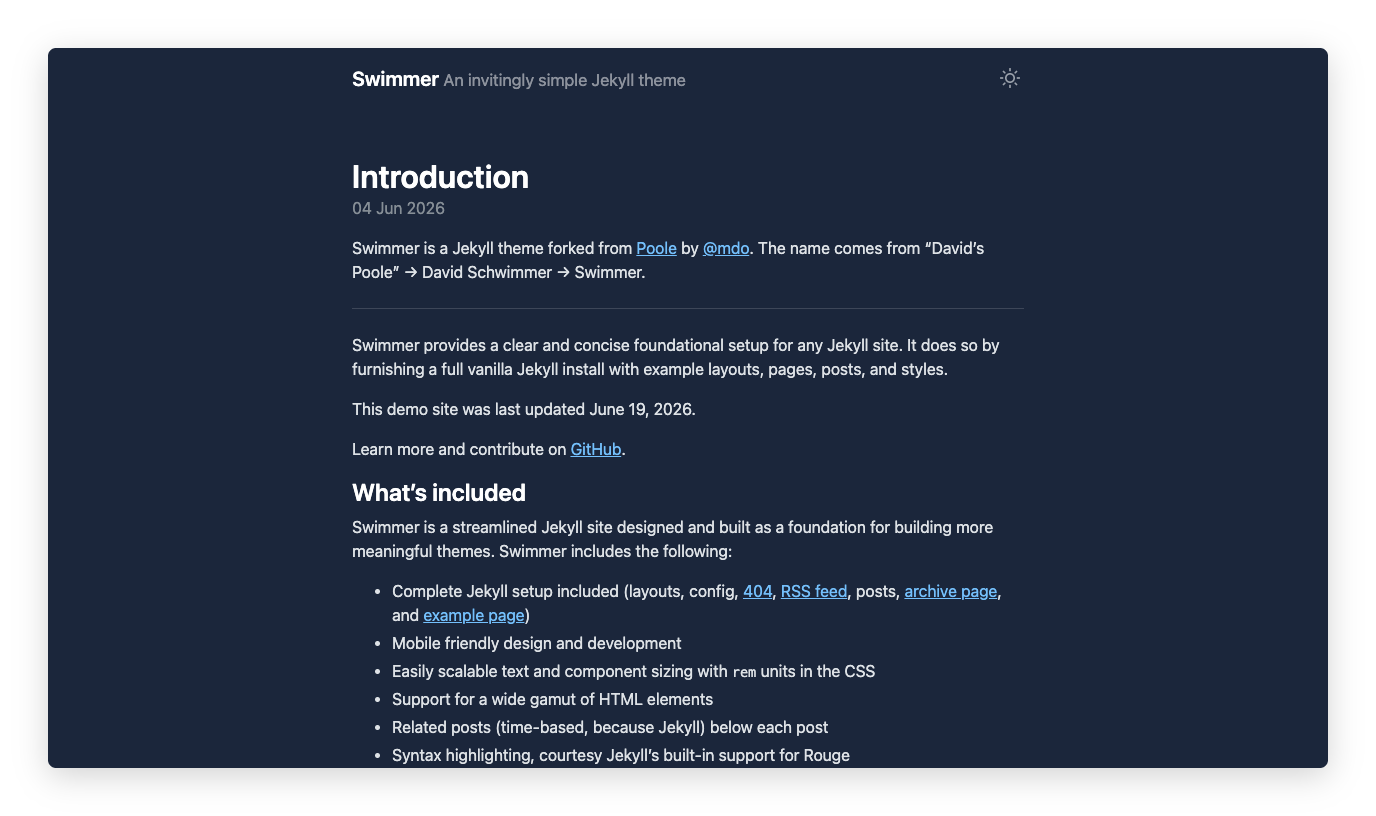
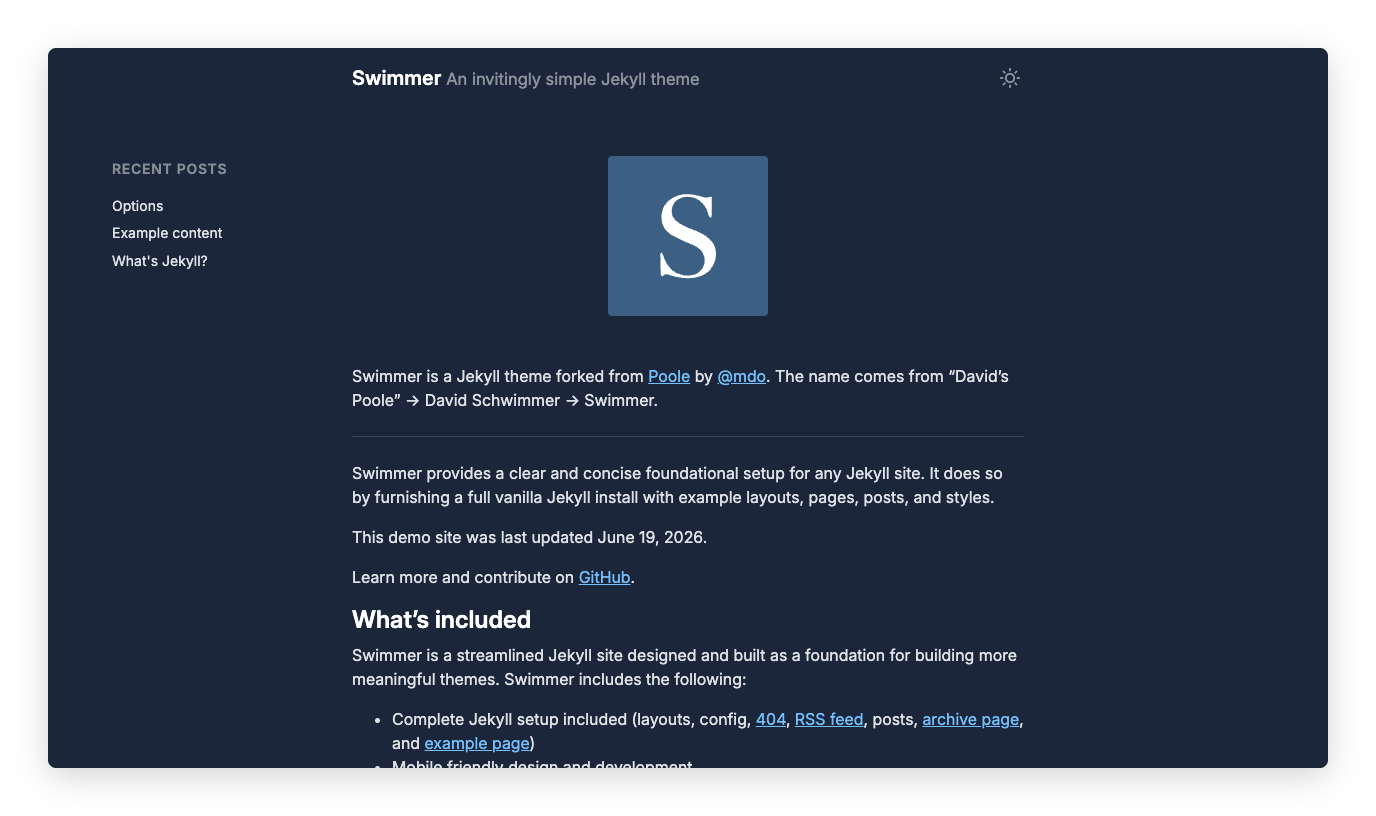
Enhance Swimmer theme with new features and styling
- Updated README.md to reflect new features including dedicated landing page, minimalist masthead, post sidebar, dark mode, self-hosted variable fonts, and Tailwind CSS v4 integration.
- Added CSS styles for landing logo to improve layout.
- Updated index.md to include landing logo.
- Updated styles.css to incorporate new styles and ensure proper functionality across light and dark modes.
- Updated screenshot images to reflect the latest design changes.

diff --git a/_css/layout.css b/_css/layout.css
@@ -10,3 +10,9 @@ footer {
   margin-top: var(--spacer-3);
   margin-bottom: var(--spacer-3);
 }
+
+.landing-logo {
+  display: block;
+  margin: 0 auto var(--spacer-3);
+  border-radius: var(--radius-default);
+}

diff --git a/styles.css b/styles.css
@@ -1,2 +1,2 @@
 /*! tailwindcss v4.3.1 | MIT License | https://tailwindcss.com */
-@layer properties{@supports (((-webkit-hyphens:none)) and (not (margin-trim:inline))) or ((-moz-orient:inline) and (not (color:rgb(from red r g b)))){*,:before,:after,::backdrop{--tw-blur:initial;--tw-brightness:initial;--tw-contrast:initial;--tw-grayscale:initial;--tw-hue-rotate:initial;--tw-invert:initial;--tw-opacity:initial;--tw-saturate:initial;--tw-sepia:initial;--tw-drop-shadow:initial;--tw-drop-shadow-color:initial;--tw-drop-shadow-alpha:100%;--tw-drop-shadow-size:initial}}}@layer theme{:root,:host{--color-blue-300:#74c0fc;--color-blue-400:#4dabf7;--color-gray-100:#f1f3f5;--color-gray-200:#e9ecef;--color-gray-300:#dee2e6;--color-gray-400:#ced4da;--color-gray-500:#adb5bd;--color-gray-600:#868e96;--color-gray-700:#495057;--color-gray-800:#343a40;--color-gray-900:#212529;--color-gray-000:#f8f9fa;--color-red:#fa5252;--color-pink:#e64980;--color-grape:#be4bdb;--color-purple:#7950f2;--color-indigo:#4c6ef5;--color-blue:#228be6;--color-cyan:#15aabf;--color-teal:#12b886;--color-green:#40c057;--color-yellow:#fab005;--color-orange:#fd7e14;--font-body:"Inter", -apple-system, BlinkMacSystemFont, "Segoe UI", Roboto, "Helvetica Neue", Arial, "Noto Sans", sans-serif, "Apple Color Emoji", "Segoe UI Emoji", "Segoe UI Symbol", "Noto Color Emoji";--font-code:"Roboto Mono", SFMono-Regular, Menlo, Monaco, Consolas, "Liberation Mono", "Courier New", monospace;--radius-default:.25rem}}@layer utilities{.static{position:static}.contents{display:contents}.inline{display:inline}.grayscale{--tw-grayscale:grayscale(100%);filter:var(--tw-blur,) var(--tw-brightness,) var(--tw-contrast,) var(--tw-grayscale,) var(--tw-hue-rotate,) var(--tw-invert,) var(--tw-saturate,) var(--tw-sepia,) var(--tw-drop-shadow,)}}@font-face{font-family:Inter;font-style:normal;font-weight:100 900;font-display:swap;src:url(assets/fonts/InterVariable.woff2)format("woff2")}@font-face{font-family:Roboto Mono;font-style:normal;font-weight:100 700;font-display:swap;src:url(assets/fonts/RobotoMono-Variable.woff2)format("woff2")}:root{--body-font-size:16px;--body-line-height:1.5;--body-color:var(--color-gray-700);--body-bg:#f7f9fc;--link-color:var(--color-blue);--link-hover-color:#1c7ed6;--heading-color:var(--color-gray-900);--border-color:var(--color-gray-400);--code-color:var(--color-grape);--code-bg:#eef0f5;--highlight-color:var(--color-gray-900);--highlight-bg:#bee5f2;--spacer:1rem;--spacer-2:calc(var(--spacer) * 1.5);--spacer-3:calc(var(--spacer) * 3)}@media (prefers-color-scheme:dark){:root:not([data-theme=light]){--body-color:var(--color-gray-300);--body-bg:#1b263b;--heading-color:#fff;--link-color:var(--color-blue-300);--link-hover-color:var(--color-blue-400);--border-color:#ffffff26;--code-bg:#131c2e;--highlight-color:var(--color-gray-200);--highlight-bg:#1e4a5e}}:root[data-theme=dark]{--body-color:var(--color-gray-300);--body-bg:#1b263b;--heading-color:#fff;--link-color:var(--color-blue-300);--link-hover-color:var(--color-blue-400);--border-color:#ffffff26;--code-bg:#131c2e;--highlight-color:var(--color-gray-200);--highlight-bg:#1e4a5e}*{box-sizing:border-box}body{font-family:var(--font-body);font-size:var(--body-font-size);line-height:var(--body-line-height);color:var(--body-color);background-color:var(--body-bg);-webkit-text-size-adjust:100%;-ms-text-size-adjust:100%;margin:0}a{color:var(--link-color)}a:hover,a:focus{color:var(--link-hover-color)}a strong{color:inherit}img{max-width:100%;margin-bottom:var(--spacer);border-radius:var(--radius-default);display:block}table{border:0 solid var(--border-color);border-collapse:collapse;width:100%;margin-bottom:1rem}td,th{border-color:inherit;border-style:solid;border-width:0 0 1px;padding:.25rem .5rem}th{text-align:left}thead th{border-bottom-color:currentColor}mark{color:var(--highlight-color);background-color:var(--highlight-bg);border-radius:.125rem;padding:.15rem}h1,h2,h3,h4,h5,h6{color:var(--heading-color);margin-bottom:.5rem;font-weight:600;line-height:1.25}h1{font-size:2rem}h2{margin-top:1rem;font-size:1.5rem}h3{margin-top:1.5rem;font-size:1.25rem}h4,h5,h6{margin-top:1rem;font-size:1rem}p,ul,ol,dl{margin-top:0;margin-bottom:1rem}dt{font-weight:700}dd{margin-bottom:.5rem}hr{margin:var(--spacer-2) 0;border:0;border-top:1px solid var(--border-color);position:relative}abbr{color:var(--color-gray-600);text-transform:uppercase;font-size:85%;font-weight:700}abbr[title]{cursor:help;border-bottom:1px dotted var(--border-color)}blockquote{color:var(--color-gray-600);border-left:.25rem solid var(--border-color);margin:.8rem 0;padding:.5rem 1rem}blockquote p:last-child{margin-bottom:0}@media (min-width:30em){blockquote{padding-left:1.25rem;padding-right:5rem}}figure{margin:0}a[href^="#fn:"],a[href^="#fnref:"]{margin-left:.1rem;font-weight:700;display:inline-block}.footnotes{margin-top:2rem;font-size:85%}.lead{font-size:1.25rem;font-weight:300}.highlight .hll{background-color:#ffc}.highlight .c{color:#999}.highlight .err{color:#a00;background-color:#faa}.highlight .k{color:#069}.highlight .o{color:#555}.highlight .cm{color:#09f;font-style:italic}.highlight .cp{color:#099}.highlight .c1,.highlight .cs{color:#999}.highlight .gd{background-color:#fcc;border:1px solid #c00}.highlight .ge{font-style:italic}.highlight .gr{color:red}.highlight .gh{color:#030}.highlight .gi{background-color:#cfc;border:1px solid #0c0}.highlight .go{color:#aaa}.highlight .gp{color:#009}.highlight .gu{color:#030}.highlight .gt{color:#9c6}.highlight .kc,.highlight .kd,.highlight .kn,.highlight .kp,.highlight .kr{color:#069}.highlight .kt{color:#078}.highlight .m{color:#f60}.highlight .s{color:#d44950}.highlight .na{color:#4f9fcf}.highlight .nb{color:#366}.highlight .nc{color:#0a8}.highlight .no{color:#360}.highlight .nd{color:#99f}.highlight .ni{color:#999}.highlight .ne{color:#c00}.highlight .nf{color:#c0f}.highlight .nl{color:#99f}.highlight .nn{color:#0cf}.highlight .nt{color:#2f6f9f}.highlight .nv{color:#033}.highlight .ow{color:#000}.highlight .w{color:#bbb}.highlight .mf,.highlight .mh,.highlight .mi,.highlight .mo{color:#f60}.highlight .sb,.highlight .sc{color:#c30}.highlight .sd{color:#c30;font-style:italic}.highlight .s2,.highlight .se,.highlight .sh{color:#c30}.highlight .si{color:#a00}.highlight .sx{color:#c30}.highlight .sr{color:#3aa}.highlight .s1{color:#c30}.highlight .ss{color:#b58900}.highlight .bp{color:#366}.highlight .vc,.highlight .vg,.highlight .vi{color:#033}.highlight .il{color:#f60}.css .o,.css .o+.nt,.css .nt+.nt{color:#999}@media (prefers-color-scheme:dark){:root:not([data-theme=light]) .highlight .hll{background-color:#ffffc814}:root:not([data-theme=light]) .highlight .err{color:#e55;background-color:#ff646426}:root:not([data-theme=light]) .highlight .o{color:#999}:root:not([data-theme=light]) .highlight .cp{color:#2cc}:root:not([data-theme=light]) .highlight .gd{background-color:#ff64641a;border-color:#c55}:root:not([data-theme=light]) .highlight .gh,:root:not([data-theme=light]) .highlight .gu{color:#6abf6a}:root:not([data-theme=light]) .highlight .gi{background-color:#64ff641a;border-color:#5a5}:root:not([data-theme=light]) .highlight .gp{color:#68d}:root:not([data-theme=light]) .highlight .k,:root:not([data-theme=light]) .highlight .kc,:root:not([data-theme=light]) .highlight .kd,:root:not([data-theme=light]) .highlight .kn,:root:not([data-theme=light]) .highlight .kp,:root:not([data-theme=light]) .highlight .kr,:root:not([data-theme=light]) .highlight .kt{color:#5aa8d8}:root:not([data-theme=light]) .highlight .nb,:root:not([data-theme=light]) .highlight .bp{color:#5dadad}:root:not([data-theme=light]) .highlight .nc{color:#2cc9a8}:root:not([data-theme=light]) .highlight .no{color:#7abf4a}:root:not([data-theme=light]) .highlight .nt{color:#5ab0e0}:root:not([data-theme=light]) .highlight .nv,:root:not([data-theme=light]) .highlight .vc,:root:not([data-theme=light]) .highlight .vg,:root:not([data-theme=light]) .highlight .vi{color:#5dadad}:root:not([data-theme=light]) .highlight .ow{color:silver}:root:not([data-theme=light]) .highlight .sr{color:#5cc}}:root[data-theme=dark] .highlight .hll{background-color:#ffffc814}:root[data-theme=dark] .highlight .err{color:#e55;background-color:#ff646426}:root[data-theme=dark] .highlight .o{color:#999}:root[data-theme=dark] .highlight .cp{color:#2cc}:root[data-theme=dark] .highlight .gd{background-color:#ff64641a;border-color:#c55}:root[data-theme=dark] .highlight .gh,:root[data-theme=dark] .highlight .gu{color:#6abf6a}:root[data-theme=dark] .highlight .gi{background-color:#64ff641a;border-color:#5a5}:root[data-theme=dark] .highlight .gp{color:#68d}:root[data-theme=dark] .highlight .k,:root[data-theme=dark] .highlight .kc,:root[data-theme=dark] .highlight .kd,:root[data-theme=dark] .highlight .kn,:root[data-theme=dark] .highlight .kp,:root[data-theme=dark] .highlight .kr,:root[data-theme=dark] .highlight .kt{color:#5aa8d8}:root[data-theme=dark] .highlight .nb,:root[data-theme=dark] .highlight .bp{color:#5dadad}:root[data-theme=dark] .highlight .nc{color:#2cc9a8}:root[data-theme=dark] .highlight .no{color:#7abf4a}:root[data-theme=dark] .highlight .nt{color:#5ab0e0}:root[data-theme=dark] .highlight .nv,:root[data-theme=dark] .highlight .vc,:root[data-theme=dark] .highlight .vg,:root[data-theme=dark] .highlight .vi{color:#5dadad}:root[data-theme=dark] .highlight .ow{color:silver}:root[data-theme=dark] .highlight .sr{color:#5cc}code,pre{font-family:var(--font-code)}code{font-size:85%}pre{margin-top:0;margin-bottom:var(--spacer-3);display:block;overflow:auto}.highlight{padding:var(--spacer);margin-bottom:var(--spacer);background-color:var(--code-bg);border-radius:var(--radius-default)}.highlight pre{margin-bottom:0}.highlight .highlight{padding:0}.rouge-table{margin-bottom:0;font-size:100%}.rouge-table,.rouge-table td,.rouge-table th{border:0}.rouge-table .gutter{vertical-align:top;-webkit-user-select:none;user-select:none;opacity:.25}.gist .markdown-body{padding:15px!important}.site-container{max-width:45rem;padding-left:var(--spacer-2);padding-right:var(--spacer-2);margin-left:auto;margin-right:auto}footer{margin-top:var(--spacer-3);margin-bottom:var(--spacer-3)}.masthead{justify-content:space-between;align-items:center;gap:var(--spacer);padding-top:var(--spacer);padding-bottom:var(--spacer);margin-bottom:var(--spacer-3);display:flex}.masthead-title{margin-top:0;margin-bottom:0}.masthead-title a{color:inherit;text-decoration:none}.masthead-title small{opacity:.5;font-weight:400}.theme-toggle{cursor:pointer;color:var(--body-color);opacity:.65;background:0 0;border:none;flex-shrink:0;padding:.25rem;line-height:1;transition:opacity .2s}.theme-toggle:hover{opacity:1}.theme-toggle svg{width:1.25rem;height:1.25rem;display:block}.theme-toggle .icon-sun{display:none}.theme-toggle .icon-moon{display:block}@media (prefers-color-scheme:dark){:root:not([data-theme=light]) .theme-toggle .icon-sun{display:block}:root:not([data-theme=light]) .theme-toggle .icon-moon{display:none}}:root[data-theme=dark] .theme-toggle .icon-sun{display:block}:root[data-theme=dark] .theme-toggle .icon-moon,:root[data-theme=light] .theme-toggle .icon-sun{display:none}:root[data-theme=light] .theme-toggle .icon-moon{display:block}.page,.post{margin-bottom:4em}:is(.page,.post) li+li{margin-top:.25rem}.page-title,.post-title{color:var(--heading-color);margin-top:0}.post-title a{color:inherit;text-decoration:none}.post-title a:hover,.post-title a:focus{text-decoration:underline}.post-date{margin-top:-.5rem;margin-bottom:var(--spacer);color:var(--color-gray-600);display:block}.related{padding-top:var(--spacer-2);padding-bottom:var(--spacer-2);margin-bottom:var(--spacer-2);border-top:1px solid var(--border-color);border-bottom:1px solid var(--border-color)}.related-posts{padding-left:0;list-style:none}.related-posts h3{margin-top:0}.related-posts a{text-decoration:none}.related-posts a small{color:var(--color-gray-600)}.post-sidebar-toggle{z-index:40;border:1px solid var(--border-color);border-radius:var(--radius-default);background-color:var(--body-bg);width:2.25rem;height:2.25rem;color:var(--body-color);cursor:pointer;justify-content:center;align-items:center;padding:0;transition:opacity .2s;display:flex;position:fixed;top:.75rem;left:.75rem}.post-sidebar-toggle svg{width:1.25rem;height:1.25rem;display:block}.post-sidebar-toggle:hover{opacity:.7}.post-sidebar-backdrop{z-index:20;opacity:0;pointer-events:none;background:#0006;transition:opacity .25s;position:fixed;inset:0}.post-sidebar-backdrop.open{opacity:1;pointer-events:auto}.post-sidebar{z-index:30;width:16rem;padding:var(--spacer-2);padding-top:var(--spacer-3);background-color:var(--body-bg);border-right:1px solid var(--border-color);transition:transform .25s;position:fixed;top:0;bottom:0;left:0;overflow-y:auto;transform:translate(-100%)}.post-sidebar.open{transform:translate(0)}.post-sidebar-heading{margin-top:0;margin-bottom:var(--spacer);letter-spacing:.05em;text-transform:uppercase;color:var(--color-gray-600);font-size:.875rem;font-weight:600}.post-sidebar-heading--related{margin-top:var(--spacer);padding-top:var(--spacer);border-top:1px solid var(--border-color)}.post-sidebar-list{margin:0;padding-left:0;list-style:none}.post-sidebar-list li+li{margin-top:.25rem}.post-sidebar-list a{color:var(--body-color);padding:.125rem 0;font-size:.875rem;line-height:1.4;text-decoration:none;display:block}.post-sidebar-list a:hover,.post-sidebar-list a:focus{color:var(--link-color)}.post-sidebar-list a.active{color:var(--heading-color);font-weight:600}.post-sidebar-list a.active:before{content:"→ "}@media (min-width:75rem){.post-sidebar-toggle,.post-sidebar-backdrop{display:none}.post-sidebar{top:7rem;left:calc((100vw - 45rem) / 2 - 12rem - var(--spacer-2));z-index:auto;background-color:#0000;border-right:none;width:12rem;max-height:calc(100vh - 8rem);padding:0;transition:none;position:fixed;bottom:auto;overflow-y:auto;transform:none}}.pagination{margin:0 -1.5rem var(--spacer);color:var(--color-gray-600);text-align:center;flex-direction:column;display:flex}.pagination-item{padding:var(--spacer);border:solid var(--border-color);border-width:1px 0;text-decoration:none;display:block}.pagination-item:first-child{margin-bottom:-1px}a.pagination-item:hover{background-color:var(--border-color)}@media (min-width:30em){.pagination{margin:var(--spacer-3) 0;flex-direction:row}.pagination-item{float:left;border-width:1px;width:50%}.pagination-item:first-child{border-top-left-radius:var(--radius-default);border-bottom-left-radius:var(--radius-default);margin-bottom:0}.pagination-item:last-child{border-top-right-radius:var(--radius-default);border-bottom-right-radius:var(--radius-default);margin-left:-1px}}.message{padding:var(--spacer);margin-bottom:var(--spacer);color:var(--highlight-color);background-color:var(--highlight-bg);border-radius:var(--radius-default)}#markdown-toc{padding:var(--spacer-2) var(--spacer-3);margin-bottom:var(--spacer-2);border:solid var(--border-color);border-width:1px 0}#markdown-toc:before{margin-left:calc(var(--spacer-3) * -1);content:"Contents";font-size:85%;font-weight:500;display:block}.colors{grid-template-columns:max-content 1fr;display:grid}.colors dt{border-radius:var(--radius-default);width:3rem;height:3rem;box-shadow:inset 0 0 0 1px #ffffff26}.colors dd{margin-left:var(--spacer)}@property --tw-blur{syntax:"*";inherits:false}@property --tw-brightness{syntax:"*";inherits:false}@property --tw-contrast{syntax:"*";inherits:false}@property --tw-grayscale{syntax:"*";inherits:false}@property --tw-hue-rotate{syntax:"*";inherits:false}@property --tw-invert{syntax:"*";inherits:false}@property --tw-opacity{syntax:"*";inherits:false}@property --tw-saturate{syntax:"*";inherits:false}@property --tw-sepia{syntax:"*";inherits:false}@property --tw-drop-shadow{syntax:"*";inherits:false}@property --tw-drop-shadow-color{syntax:"*";inherits:false}@property --tw-drop-shadow-alpha{syntax:"<percentage>";inherits:false;initial-value:100%}@property --tw-drop-shadow-size{syntax:"*";inherits:false}
+@layer properties{@supports (((-webkit-hyphens:none)) and (not (margin-trim:inline))) or ((-moz-orient:inline) and (not (color:rgb(from red r g b)))){*,:before,:after,::backdrop{--tw-blur:initial;--tw-brightness:initial;--tw-contrast:initial;--tw-grayscale:initial;--tw-hue-rotate:initial;--tw-invert:initial;--tw-opacity:initial;--tw-saturate:initial;--tw-sepia:initial;--tw-drop-shadow:initial;--tw-drop-shadow-color:initial;--tw-drop-shadow-alpha:100%;--tw-drop-shadow-size:initial}}}@layer theme{:root,:host{--color-blue-300:#74c0fc;--color-blue-400:#4dabf7;--color-gray-100:#f1f3f5;--color-gray-200:#e9ecef;--color-gray-300:#dee2e6;--color-gray-400:#ced4da;--color-gray-500:#adb5bd;--color-gray-600:#868e96;--color-gray-700:#495057;--color-gray-800:#343a40;--color-gray-900:#212529;--color-gray-000:#f8f9fa;--color-red:#fa5252;--color-pink:#e64980;--color-grape:#be4bdb;--color-purple:#7950f2;--color-indigo:#4c6ef5;--color-blue:#228be6;--color-cyan:#15aabf;--color-teal:#12b886;--color-green:#40c057;--color-yellow:#fab005;--color-orange:#fd7e14;--font-body:"Inter", -apple-system, BlinkMacSystemFont, "Segoe UI", Roboto, "Helvetica Neue", Arial, "Noto Sans", sans-serif, "Apple Color Emoji", "Segoe UI Emoji", "Segoe UI Symbol", "Noto Color Emoji";--font-code:"Roboto Mono", SFMono-Regular, Menlo, Monaco, Consolas, "Liberation Mono", "Courier New", monospace;--radius-default:.25rem}}@layer utilities{.fixed{position:fixed}.static{position:static}.contents{display:contents}.hidden{display:none}.inline{display:inline}.grayscale{--tw-grayscale:grayscale(100%);filter:var(--tw-blur,) var(--tw-brightness,) var(--tw-contrast,) var(--tw-grayscale,) var(--tw-hue-rotate,) var(--tw-invert,) var(--tw-saturate,) var(--tw-sepia,) var(--tw-drop-shadow,)}}@font-face{font-family:Inter;font-style:normal;font-weight:100 900;font-display:swap;src:url(assets/fonts/InterVariable.woff2)format("woff2")}@font-face{font-family:Roboto Mono;font-style:normal;font-weight:100 700;font-display:swap;src:url(assets/fonts/RobotoMono-Variable.woff2)format("woff2")}:root{--body-font-size:16px;--body-line-height:1.5;--body-color:var(--color-gray-700);--body-bg:#f7f9fc;--link-color:var(--color-blue);--link-hover-color:#1c7ed6;--heading-color:var(--color-gray-900);--border-color:var(--color-gray-400);--code-color:var(--color-grape);--code-bg:#eef0f5;--highlight-color:var(--color-gray-900);--highlight-bg:#bee5f2;--spacer:1rem;--spacer-2:calc(var(--spacer) * 1.5);--spacer-3:calc(var(--spacer) * 3)}@media (prefers-color-scheme:dark){:root:not([data-theme=light]){--body-color:var(--color-gray-300);--body-bg:#1b263b;--heading-color:#fff;--link-color:var(--color-blue-300);--link-hover-color:var(--color-blue-400);--border-color:#ffffff26;--code-bg:#131c2e;--highlight-color:var(--color-gray-200);--highlight-bg:#1e4a5e}}:root[data-theme=dark]{--body-color:var(--color-gray-300);--body-bg:#1b263b;--heading-color:#fff;--link-color:var(--color-blue-300);--link-hover-color:var(--color-blue-400);--border-color:#ffffff26;--code-bg:#131c2e;--highlight-color:var(--color-gray-200);--highlight-bg:#1e4a5e}*{box-sizing:border-box}body{font-family:var(--font-body);font-size:var(--body-font-size);line-height:var(--body-line-height);color:var(--body-color);background-color:var(--body-bg);-webkit-text-size-adjust:100%;-ms-text-size-adjust:100%;margin:0}a{color:var(--link-color)}a:hover,a:focus{color:var(--link-hover-color)}a strong{color:inherit}img{max-width:100%;margin-bottom:var(--spacer);border-radius:var(--radius-default);display:block}table{border:0 solid var(--border-color);border-collapse:collapse;width:100%;margin-bottom:1rem}td,th{border-color:inherit;border-style:solid;border-width:0 0 1px;padding:.25rem .5rem}th{text-align:left}thead th{border-bottom-color:currentColor}mark{color:var(--highlight-color);background-color:var(--highlight-bg);border-radius:.125rem;padding:.15rem}h1,h2,h3,h4,h5,h6{color:var(--heading-color);margin-bottom:.5rem;font-weight:600;line-height:1.25}h1{font-size:2rem}h2{margin-top:1rem;font-size:1.5rem}h3{margin-top:1.5rem;font-size:1.25rem}h4,h5,h6{margin-top:1rem;font-size:1rem}p,ul,ol,dl{margin-top:0;margin-bottom:1rem}dt{font-weight:700}dd{margin-bottom:.5rem}hr{margin:var(--spacer-2) 0;border:0;border-top:1px solid var(--border-color);position:relative}abbr{color:var(--color-gray-600);text-transform:uppercase;font-size:85%;font-weight:700}abbr[title]{cursor:help;border-bottom:1px dotted var(--border-color)}blockquote{color:var(--color-gray-600);border-left:.25rem solid var(--border-color);margin:.8rem 0;padding:.5rem 1rem}blockquote p:last-child{margin-bottom:0}@media (min-width:30em){blockquote{padding-left:1.25rem;padding-right:5rem}}figure{margin:0}a[href^="#fn:"],a[href^="#fnref:"]{margin-left:.1rem;font-weight:700;display:inline-block}.footnotes{margin-top:2rem;font-size:85%}.lead{font-size:1.25rem;font-weight:300}.highlight .hll{background-color:#ffc}.highlight .c{color:#999}.highlight .err{color:#a00;background-color:#faa}.highlight .k{color:#069}.highlight .o{color:#555}.highlight .cm{color:#09f;font-style:italic}.highlight .cp{color:#099}.highlight .c1,.highlight .cs{color:#999}.highlight .gd{background-color:#fcc;border:1px solid #c00}.highlight .ge{font-style:italic}.highlight .gr{color:red}.highlight .gh{color:#030}.highlight .gi{background-color:#cfc;border:1px solid #0c0}.highlight .go{color:#aaa}.highlight .gp{color:#009}.highlight .gu{color:#030}.highlight .gt{color:#9c6}.highlight .kc,.highlight .kd,.highlight .kn,.highlight .kp,.highlight .kr{color:#069}.highlight .kt{color:#078}.highlight .m{color:#f60}.highlight .s{color:#d44950}.highlight .na{color:#4f9fcf}.highlight .nb{color:#366}.highlight .nc{color:#0a8}.highlight .no{color:#360}.highlight .nd{color:#99f}.highlight .ni{color:#999}.highlight .ne{color:#c00}.highlight .nf{color:#c0f}.highlight .nl{color:#99f}.highlight .nn{color:#0cf}.highlight .nt{color:#2f6f9f}.highlight .nv{color:#033}.highlight .ow{color:#000}.highlight .w{color:#bbb}.highlight .mf,.highlight .mh,.highlight .mi,.highlight .mo{color:#f60}.highlight .sb,.highlight .sc{color:#c30}.highlight .sd{color:#c30;font-style:italic}.highlight .s2,.highlight .se,.highlight .sh{color:#c30}.highlight .si{color:#a00}.highlight .sx{color:#c30}.highlight .sr{color:#3aa}.highlight .s1{color:#c30}.highlight .ss{color:#b58900}.highlight .bp{color:#366}.highlight .vc,.highlight .vg,.highlight .vi{color:#033}.highlight .il{color:#f60}.css .o,.css .o+.nt,.css .nt+.nt{color:#999}@media (prefers-color-scheme:dark){:root:not([data-theme=light]) .highlight .hll{background-color:#ffffc814}:root:not([data-theme=light]) .highlight .err{color:#e55;background-color:#ff646426}:root:not([data-theme=light]) .highlight .o{color:#999}:root:not([data-theme=light]) .highlight .cp{color:#2cc}:root:not([data-theme=light]) .highlight .gd{background-color:#ff64641a;border-color:#c55}:root:not([data-theme=light]) .highlight .gh,:root:not([data-theme=light]) .highlight .gu{color:#6abf6a}:root:not([data-theme=light]) .highlight .gi{background-color:#64ff641a;border-color:#5a5}:root:not([data-theme=light]) .highlight .gp{color:#68d}:root:not([data-theme=light]) .highlight .k,:root:not([data-theme=light]) .highlight .kc,:root:not([data-theme=light]) .highlight .kd,:root:not([data-theme=light]) .highlight .kn,:root:not([data-theme=light]) .highlight .kp,:root:not([data-theme=light]) .highlight .kr,:root:not([data-theme=light]) .highlight .kt{color:#5aa8d8}:root:not([data-theme=light]) .highlight .nb,:root:not([data-theme=light]) .highlight .bp{color:#5dadad}:root:not([data-theme=light]) .highlight .nc{color:#2cc9a8}:root:not([data-theme=light]) .highlight .no{color:#7abf4a}:root:not([data-theme=light]) .highlight .nt{color:#5ab0e0}:root:not([data-theme=light]) .highlight .nv,:root:not([data-theme=light]) .highlight .vc,:root:not([data-theme=light]) .highlight .vg,:root:not([data-theme=light]) .highlight .vi{color:#5dadad}:root:not([data-theme=light]) .highlight .ow{color:silver}:root:not([data-theme=light]) .highlight .sr{color:#5cc}}:root[data-theme=dark] .highlight .hll{background-color:#ffffc814}:root[data-theme=dark] .highlight .err{color:#e55;background-color:#ff646426}:root[data-theme=dark] .highlight .o{color:#999}:root[data-theme=dark] .highlight .cp{color:#2cc}:root[data-theme=dark] .highlight .gd{background-color:#ff64641a;border-color:#c55}:root[data-theme=dark] .highlight .gh,:root[data-theme=dark] .highlight .gu{color:#6abf6a}:root[data-theme=dark] .highlight .gi{background-color:#64ff641a;border-color:#5a5}:root[data-theme=dark] .highlight .gp{color:#68d}:root[data-theme=dark] .highlight .k,:root[data-theme=dark] .highlight .kc,:root[data-theme=dark] .highlight .kd,:root[data-theme=dark] .highlight .kn,:root[data-theme=dark] .highlight .kp,:root[data-theme=dark] .highlight .kr,:root[data-theme=dark] .highlight .kt{color:#5aa8d8}:root[data-theme=dark] .highlight .nb,:root[data-theme=dark] .highlight .bp{color:#5dadad}:root[data-theme=dark] .highlight .nc{color:#2cc9a8}:root[data-theme=dark] .highlight .no{color:#7abf4a}:root[data-theme=dark] .highlight .nt{color:#5ab0e0}:root[data-theme=dark] .highlight .nv,:root[data-theme=dark] .highlight .vc,:root[data-theme=dark] .highlight .vg,:root[data-theme=dark] .highlight .vi{color:#5dadad}:root[data-theme=dark] .highlight .ow{color:silver}:root[data-theme=dark] .highlight .sr{color:#5cc}code,pre{font-family:var(--font-code)}code{font-size:85%}pre{margin-top:0;margin-bottom:var(--spacer-3);display:block;overflow:auto}.highlight{padding:var(--spacer);margin-bottom:var(--spacer);background-color:var(--code-bg);border-radius:var(--radius-default)}.highlight pre{margin-bottom:0}.highlight .highlight{padding:0}.rouge-table{margin-bottom:0;font-size:100%}.rouge-table,.rouge-table td,.rouge-table th{border:0}.rouge-table .gutter{vertical-align:top;-webkit-user-select:none;user-select:none;opacity:.25}.gist .markdown-body{padding:15px!important}.site-container{max-width:45rem;padding-left:var(--spacer-2);padding-right:var(--spacer-2);margin-left:auto;margin-right:auto}footer{margin-top:var(--spacer-3);margin-bottom:var(--spacer-3)}.landing-logo{margin:0 auto var(--spacer-3);border-radius:var(--radius-default);display:block}.masthead{justify-content:space-between;align-items:center;gap:var(--spacer);padding-top:var(--spacer);padding-bottom:var(--spacer);margin-bottom:var(--spacer-3);display:flex}.masthead-title{margin-top:0;margin-bottom:0}.masthead-title a{color:inherit;text-decoration:none}.masthead-title small{opacity:.5;font-weight:400}.theme-toggle{cursor:pointer;color:var(--body-color);opacity:.65;background:0 0;border:none;flex-shrink:0;padding:.25rem;line-height:1;transition:opacity .2s}.theme-toggle:hover{opacity:1}.theme-toggle svg{width:1.25rem;height:1.25rem;display:block}.theme-toggle .icon-sun{display:none}.theme-toggle .icon-moon{display:block}@media (prefers-color-scheme:dark){:root:not([data-theme=light]) .theme-toggle .icon-sun{display:block}:root:not([data-theme=light]) .theme-toggle .icon-moon{display:none}}:root[data-theme=dark] .theme-toggle .icon-sun{display:block}:root[data-theme=dark] .theme-toggle .icon-moon,:root[data-theme=light] .theme-toggle .icon-sun{display:none}:root[data-theme=light] .theme-toggle .icon-moon{display:block}.page,.post{margin-bottom:4em}:is(.page,.post) li+li{margin-top:.25rem}.page-title,.post-title{color:var(--heading-color);margin-top:0}.post-title a{color:inherit;text-decoration:none}.post-title a:hover,.post-title a:focus{text-decoration:underline}.post-date{margin-top:-.5rem;margin-bottom:var(--spacer);color:var(--color-gray-600);display:block}.related{padding-top:var(--spacer-2);padding-bottom:var(--spacer-2);margin-bottom:var(--spacer-2);border-top:1px solid var(--border-color);border-bottom:1px solid var(--border-color)}.related-posts{padding-left:0;list-style:none}.related-posts h3{margin-top:0}.related-posts a{text-decoration:none}.related-posts a small{color:var(--color-gray-600)}.post-sidebar-toggle{z-index:40;border:1px solid var(--border-color);border-radius:var(--radius-default);background-color:var(--body-bg);width:2.25rem;height:2.25rem;color:var(--body-color);cursor:pointer;justify-content:center;align-items:center;padding:0;transition:opacity .2s;display:flex;position:fixed;top:.75rem;left:.75rem}.post-sidebar-toggle svg{width:1.25rem;height:1.25rem;display:block}.post-sidebar-toggle:hover{opacity:.7}.post-sidebar-backdrop{z-index:20;opacity:0;pointer-events:none;background:#0006;transition:opacity .25s;position:fixed;inset:0}.post-sidebar-backdrop.open{opacity:1;pointer-events:auto}.post-sidebar{z-index:30;width:16rem;padding:var(--spacer-2);padding-top:var(--spacer-3);background-color:var(--body-bg);border-right:1px solid var(--border-color);transition:transform .25s;position:fixed;top:0;bottom:0;left:0;overflow-y:auto;transform:translate(-100%)}.post-sidebar.open{transform:translate(0)}.post-sidebar-heading{margin-top:0;margin-bottom:var(--spacer);letter-spacing:.05em;text-transform:uppercase;color:var(--color-gray-600);font-size:.875rem;font-weight:600}.post-sidebar-heading--related{margin-top:var(--spacer);padding-top:var(--spacer);border-top:1px solid var(--border-color)}.post-sidebar-list{margin:0;padding-left:0;list-style:none}.post-sidebar-list li+li{margin-top:.25rem}.post-sidebar-list a{color:var(--body-color);padding:.125rem 0;font-size:.875rem;line-height:1.4;text-decoration:none;display:block}.post-sidebar-list a:hover,.post-sidebar-list a:focus{color:var(--link-color)}.post-sidebar-list a.active{color:var(--heading-color);font-weight:600}.post-sidebar-list a.active:before{content:"→ "}@media (min-width:75rem){.post-sidebar-toggle,.post-sidebar-backdrop{display:none}.post-sidebar{top:7rem;left:calc((100vw - 45rem) / 2 - 12rem - var(--spacer-2));z-index:auto;background-color:#0000;border-right:none;width:12rem;max-height:calc(100vh - 8rem);padding:0;transition:none;position:fixed;bottom:auto;overflow-y:auto;transform:none}}.pagination{margin:0 -1.5rem var(--spacer);color:var(--color-gray-600);text-align:center;flex-direction:column;display:flex}.pagination-item{padding:var(--spacer);border:solid var(--border-color);border-width:1px 0;text-decoration:none;display:block}.pagination-item:first-child{margin-bottom:-1px}a.pagination-item:hover{background-color:var(--border-color)}@media (min-width:30em){.pagination{margin:var(--spacer-3) 0;flex-direction:row}.pagination-item{float:left;border-width:1px;width:50%}.pagination-item:first-child{border-top-left-radius:var(--radius-default);border-bottom-left-radius:var(--radius-default);margin-bottom:0}.pagination-item:last-child{border-top-right-radius:var(--radius-default);border-bottom-right-radius:var(--radius-default);margin-left:-1px}}.message{padding:var(--spacer);margin-bottom:var(--spacer);color:var(--highlight-color);background-color:var(--highlight-bg);border-radius:var(--radius-default)}#markdown-toc{padding:var(--spacer-2) var(--spacer-3);margin-bottom:var(--spacer-2);border:solid var(--border-color);border-width:1px 0}#markdown-toc:before{margin-left:calc(var(--spacer-3) * -1);content:"Contents";font-size:85%;font-weight:500;display:block}.colors{grid-template-columns:max-content 1fr;display:grid}.colors dt{border-radius:var(--radius-default);width:3rem;height:3rem;box-shadow:inset 0 0 0 1px #ffffff26}.colors dd{margin-left:var(--spacer)}@property --tw-blur{syntax:"*";inherits:false}@property --tw-brightness{syntax:"*";inherits:false}@property --tw-contrast{syntax:"*";inherits:false}@property --tw-grayscale{syntax:"*";inherits:false}@property --tw-hue-rotate{syntax:"*";inherits:false}@property --tw-invert{syntax:"*";inherits:false}@property --tw-opacity{syntax:"*";inherits:false}@property --tw-saturate{syntax:"*";inherits:false}@property --tw-sepia{syntax:"*";inherits:false}@property --tw-drop-shadow{syntax:"*";inherits:false}@property --tw-drop-shadow-color{syntax:"*";inherits:false}@property --tw-drop-shadow-alpha{syntax:"<percentage>";inherits:false;initial-value:100%}@property --tw-drop-shadow-size{syntax:"*";inherits:false}

diff --git a/README.md b/README.md
@@ -2,12 +2,25 @@
 
 Swimmer is David's fork of [Poole](https://getpoole.com), the foundational Jekyll theme by [@mdo](https://twitter.com/mdo). The name comes from "David's Poole" &rarr; David Schwimmer &rarr; Swimmer.
 
-Swimmer provides a clear and concise foundational setup for any Jekyll site, furnishing a full vanilla Jekyll install with example templates, pages, posts, and styles.
+Swimmer is an opinionated, full-featured Jekyll theme with a dedicated landing page, mobile sidebar, dual-mechanism dark mode, and Tailwind CSS v4 styling.
 
 <p>
   <img src="docs/screenshot-light.png" alt="Swimmer light mode" width="49%">
   <img src="docs/screenshot-dark.png" alt="Swimmer dark mode" width="49%">
 </p>
+
+## Features
+
+- **Dedicated landing page** — `index.md` serves as a standalone homepage with logo, not a paginated post listing
+- **Minimalist masthead** — just site title, tagline, and dark mode toggle; no navigation bar
+- **Post sidebar** — hamburger-triggered overlay on mobile, fixed-position list on desktop (≥75rem), showing the 10 most recent posts and any related posts
+- **Dark mode** — respects `prefers-color-scheme`, offers a manual toggle (sun/moon icons), persists preference in `localStorage`, and prevents flash of wrong theme
+- **Self-hosted variable fonts** — Inter (body) and Roboto Mono (code), preloaded as WOFF2
+- **Tailwind CSS v4** — modular CSS via `@tailwindcss/cli`, compiled to a single minified `styles.css`
+- **Syntax highlighting** — Rouge with separate light and dark color schemes
+- **Archive page** — posts grouped by month/year
+- **Atom/RSS feed** — built-in `atom.xml`
+- **SEO** — `jekyll-seo-tag` integrated in `<head>`
 
 ## Contents
 
@@ -21,49 +34,40 @@ Swimmer provides a clear and concise foundational setup for any Jekyll site, fur
 
 ### 1. Install dependencies
 
-Swimmer is built on Jekyll and uses [Tailwind CSS](https://tailwindcss.com) v4 (via `@tailwindcss/cli`) to generate its CSS. Before getting started, install all Ruby and Node dependencies:
-
 ```bash
 $ make install
 ```
 
 This runs `bundle install` and `npm install`. You'll need Ruby 3.3.0, Bundler, and Node (managed via fnm).
 
-**Need syntax highlighting?** Swimmer includes support for Rouge, so install the gem to make use of the built-in styling. Read more about this in the [Jekyll docs](https://jekyllrb.com/docs/liquid/tags/#code-snippet-highlighting).
-
-### 2a. Quick start
-
-To help anyone with any level of familiarity with Jekyll quickly get started, Swimmer includes everything you need for a basic Jekyll site. To that end, just download Swimmer and start up Jekyll.
-
-### 2b. Roll your own Jekyll site
-
-Folks wishing to use Jekyll's templates and styles can do so with a little bit of manual labor. Download Swimmer and then copy what you need (likely `_layouts/`, `_includes/`, `_css/`, `*.html` files, `atom.xml` for RSS, and `assets/` for images and icons).
-
-### 3. Running locally
-
-To see your Jekyll site with Swimmer applied, start a Jekyll server. In Terminal, from `/swimmer` (or whatever your Jekyll site's root directory is named):
+### 2. Running locally
 
 ```bash
 $ make serve
 ```
 
-Open <http://localhost:4000> in your browser, and voila.
+Open <http://localhost:4000> in your browser. The CSS will rebuild on changes automatically.
+
+### 3. Production build
+
+```bash
+$ make build
+```
+
+Output goes to `_site/`.
 
 ### 4. Serving it up
 
-If you host your code on GitHub, you can use [GitHub Pages](https://pages.github.com) to host your project.
-
-1. Push your repo to GitHub.
-   1. If you're [using a custom domain name](https://help.github.com/articles/setting-up-a-custom-domain-with-github-pages), modify the `CNAME` file to point to your new domain.
-   2. If you're not using a custom domain name, **modify the `baseurl` in `_config.yml`** to point to your GitHub Pages URL. Example: for a repo at `github.com/username/swimmer`, use `http://username.github.io/swimmer/`. **Be sure to include the trailing slash.**
-2. Configure GitHub Pages to deploy from your default branch (or set up a GitHub Actions workflow).
-3. Done! Head to your GitHub Pages URL or custom domain.
-
-No matter your production or hosting setup, be sure to verify the `baseurl` option file and `CNAME` settings. Not applying this correctly can mean broken styles on your site.
+Push your repo to GitHub and use [GitHub Pages](https://pages.github.com) to host. Verify the `baseurl` option in `_config.yml` and `CNAME` if using a custom domain.
 
 ## Development
 
-CSS is handled via [Tailwind CSS](https://tailwindcss.com) v4. Source CSS files are located in `_css/`, compiled via `@tailwindcss/cli`, and output to `styles.css`.
+CSS lives in `_css/` as modular files compiled into `styles.css`. Edit the source files in `_css/`, then run `make css` (or use `make serve` for auto-rebuild).
+
+To regenerate screenshots:
+```bash
+$ make screenshots
+```
 
 ## Credits
 

diff --git a/AGENTS.md b/AGENTS.md
@@ -2,7 +2,7 @@
 
 ## Overview
 
-Jekyll static-site theme (fork of Poole) using Tailwind CSS v4 for styling. Ruby 3.3.0, Jekyll 4.x, no TypeScript.
+Opinionated Jekyll static-site theme (fork of Poole) with a dedicated landing page, mobile sidebar, dark mode, and Tailwind CSS v4 styling. Ruby 3.3.0, Jekyll 4.x, no TypeScript.
 
 ## Commands
 
@@ -31,15 +31,17 @@ All CSS lives in `_css/` as modular plain CSS files imported into `_css/styles.c
 
 | File | Concern |
 |------|---------|
+| `fonts.css` | Self-hosted Inter + Roboto Mono `@font-face` declarations |
 | `theme.css` | Design tokens, CSS custom properties, light/dark color schemes |
 | `base.css` | Reset, body, links, images, tables |
 | `type.css` | Typography (headings, paragraphs, lists, blockquotes) |
-| `layout.css` | Page container, footer |
-| `masthead.css` | Site header, dark mode toggle button |
+| `syntax.css` | Rouge syntax highlighting (light + dark) |
+| `code.css` | Code blocks and inline code |
+| `layout.css` | Page container, landing logo, footer |
+| `masthead.css` | Site header (title + tagline + dark mode toggle button) |
+| `sidebar.css` | Mobile hamburger sidebar + desktop fixed sidebar with recent/related posts |
 | `posts.css` | Blog post and page styles, related posts |
 | `pagination.css` | Older/Newer pagination links |
-| `code.css` | Code blocks and inline code |
-| `syntax.css` | Rouge syntax highlighting (light + dark) |
 | `message.css` | Callout/message box |
 | `toc.css` | Table of contents |
 
@@ -48,10 +50,11 @@ All CSS lives in `_css/` as modular plain CSS files imported into `_css/styles.c
 ## Code Style
 
 - 2-space indentation, LF line endings, UTF-8 (see `.editorconfig`)
-- BEM-like class names: `.site-container`, `.masthead-title`, `.post-date`
+- Semantic class names: `.site-container`, `.masthead-title`, `.post-date`, `.post-sidebar`
 - Use CSS custom properties (defined in `_css/theme.css`) for all colors and theming
-- Mobile-first responsive design; `max-width: 45rem` container; breakpoint at `30em`
-- Fonts: Inter (body) + Roboto Mono (code), loaded from Google Fonts CDN
+- Mobile-first responsive design; `max-width: 45rem` container; breakpoints at `30em` (pagination) and `75rem` (sidebar)
+- Fonts: Inter (body) + Roboto Mono (code), self-hosted as WOFF2 variable fonts
+- No navigation bar — minimalist masthead with only site title, tagline, and dark mode toggle
 
 ## Dark Mode
 
@@ -62,13 +65,23 @@ Two mechanisms — both must stay in sync:
 
 User preference is persisted in `localStorage` and applied before render in `_includes/head.html` to prevent flash of wrong theme.
 
+The toggle button shows a sun icon in dark mode and a moon icon in light mode, with conditional display handled in `_css/masthead.css`.
+
 ## Content & Layouts
 
-- Posts go in `_posts/` with filename format `YYYY-MM-DD-slug.md`
-- Front matter requires `layout: post` and `title:`
 - Layouts inherit: `post.html` / `page.html` → `default.html`
-- Homepage (`index.html`) uses `jekyll-paginate` for post listing
-- Static pages: `about.md`, `archive.md`, `404.html`
+- `default.html` wraps content in `.post-with-sidebar` + `.post-content-area` alongside the sidebar include
+- Posts go in `_posts/` with filename format `YYYY-MM-DD-slug.md`
+- Front matter requires `layout: post` and `title:`; optional `related:` (list of slugs) for related posts in sidebar
+- Homepage (`index.md`) is a dedicated landing page with logo, not a paginated post listing
+- Static pages: `about.md`, `archive.md` (grouped by month/year), `404.html`
+- No navigation bar — users navigate via homepage links, sidebar, and direct URLs
+
+## Sidebar
+
+- **Mobile (`< 75rem`):** Fixed hamburger button (top-left) opens an overlay sidebar showing the 10 most recent posts and any `page.related` posts
+- **Desktop (`>= 75rem`):** Sidebar appears as a fixed-position list to the left of the content; hamburger button is hidden
+- The active post is marked with `→` prefix and bold weight
 
 ## Safety Boundaries
 

diff --git a/index.md b/index.md
@@ -3,6 +3,8 @@ layout: default
 title: Home
 ---
 
+<img class="landing-logo" src="{{ 'assets/swimmer-logo.svg' | relative_url }}" alt="Swimmer" width="160" height="160">
+
 Swimmer is a Jekyll theme forked from [Poole](https://getpoole.com) by [@mdo](https://twitter.com/mdo). The name comes from "David's Poole" &rarr; David Schwimmer &rarr; Swimmer.
 
 -----